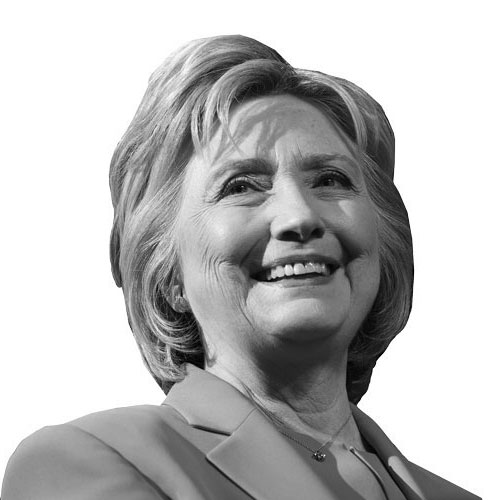
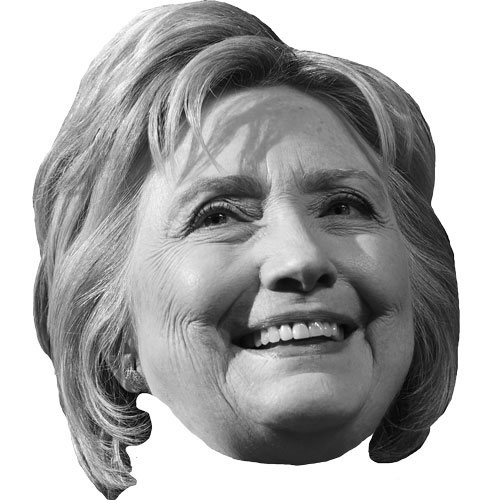
*-head => *-bust; *-head-only => *-head

diff --git a/assets/stylesheets/_president-races.scss b/assets/stylesheets/_president-races.scss
@@ -17,13 +17,13 @@
     &.clinton {
       @include wide-width();
       strong { color: $strong-dem; font-family: $header-font-family; }
-      .image::before { background-image: asset-url('digest', 'images/clinton-head.jpg'); }
+      .image::before { background-image: asset-url('digest', 'images/clinton-bust.jpg'); }
     }
 
     &.trump {
       @include wide-width();
       strong { color: $strong-gop; font-family: $header-font-family; }
-      .image::before { background-image: asset-url('digest', 'images/trump-head.jpg'); }
+      .image::before { background-image: asset-url('digest', 'images/trump-bust.jpg'); }
     }
 
     &.toss-up {

diff --git a/assets/stylesheets/_president-summary.scss b/assets/stylesheets/_president-summary.scss
@@ -63,7 +63,7 @@
     text-align: left;
     .image {
       left: 0;
-      background-image: asset-url('digest', 'images/clinton-head.jpg');
+      background-image: asset-url('digest', 'images/clinton-bust.jpg');
     }
     .text {
       left: 0;
@@ -82,7 +82,7 @@
     text-align: right;
     .image {
       right: 0;
-      background-image: asset-url('digest', 'images/trump-head.jpg');
+      background-image: asset-url('digest', 'images/trump-bust.jpg');
     }
     .text {
       right: 0;
